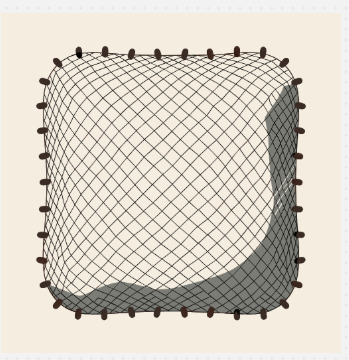
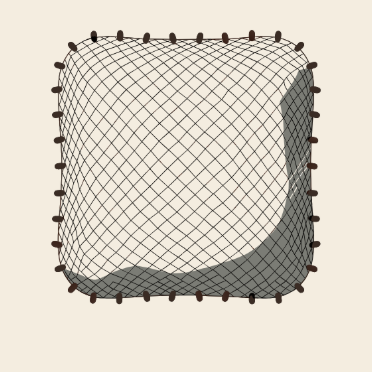
Design polish: smaller radar lens, lighter drag cursor, team intros, longer satellite pass, illustrated main points

diff --git a/src/styles.css b/src/styles.css
@@ -101,9 +101,9 @@ em.green { font-style: italic; color: var(--mangrove); }
 /* cursor */
 .cursor { position: fixed; left: 0; top: 0; z-index: 90; pointer-events: none; width: 14px; height: 14px; margin: -7px 0 0 -7px; border-radius: 50%; border: 1px solid var(--mocha); display: grid; place-items: center; transition: width 0.45s var(--ease), height 0.45s var(--ease), margin 0.45s var(--ease), background 0.45s, border-color 0.3s, opacity 0.3s; opacity: 0; mix-blend-mode: normal; }
 .cursor.show { opacity: 1; }
-.cursor.big { width: 84px; height: 84px; margin: -42px 0 0 -42px; background: var(--mocha); border-color: var(--mocha); }
+.cursor.big { width: 58px; height: 58px; margin: -29px 0 0 -29px; background: rgba(244, 237, 224, 0.62); border-color: rgba(58, 44, 36, 0.55); -webkit-backdrop-filter: blur(6px); backdrop-filter: blur(6px); box-shadow: 0 8px 22px -10px rgba(58, 44, 36, 0.45); }
 .cursor.link { width: 40px; height: 40px; margin: -20px 0 0 -20px; background: rgba(240, 86, 111, 0.25); border-color: var(--loss); }
-.cursor span { font-family: var(--font-mono); font-size: 0.6rem; letter-spacing: 0.12em; text-transform: uppercase; color: var(--sand-light); opacity: 0; transition: opacity 0.3s; }
+.cursor span { font-family: var(--font-mono); font-size: 0.54rem; letter-spacing: 0.14em; text-transform: uppercase; color: var(--mocha); opacity: 0; transition: opacity 0.3s; }
 .cursor.big span { opacity: 1; }
 .cursor.gone { opacity: 0; }
 
@@ -290,7 +290,9 @@ input[type='range'] { width: 100%; accent-color: var(--mocha); }
 .person { padding: 26px 22px 34px 0; border-bottom: 1px solid var(--line); }
 .person:not(:nth-child(3n + 1)) { padding-left: 22px; border-left: 1px solid var(--line); }
 .person .ph { aspect-ratio: 4 / 5; background: repeating-linear-gradient(135deg, var(--sand-deep) 0 10px, var(--sand) 10px 20px); display: grid; place-items: center; text-align: center; margin-bottom: 18px; padding: 16px; }
-.person h3 { font-size: 1.7rem; }
+.person h3 { font-size: 1.9rem; margin-top: 10px; }
+.person .mono { color: var(--loss); }
+.person p { margin: 12px 0 0; font-size: 0.98rem; line-height: 1.55; max-width: 34ch; color: var(--mocha-soft); }
 .list { border-top: 1px solid var(--line); }
 .list > a, .list > div { display: grid; grid-template-columns: 1fr 1.6fr auto; gap: 26px; align-items: baseline; padding: 26px 0; border-bottom: 1px solid var(--line); text-decoration: none; transition: padding 0.6s var(--ease); }
 .list > a:hover { padding-left: 16px; }
@@ -339,10 +341,9 @@ footer nav a { text-decoration: none; }
 #fish .tl-fill { position: absolute; inset: 0; background: #f0566f; transform-origin: left center; transform: scaleX(var(--p)); }
 #fish .tl-fish { position: absolute; width: 36px; height: 18px; left: calc(10% + 80% * var(--p)); top: -9px; transform: translateX(-50%); overflow: visible; }
 #fish .tl-step { position: relative; z-index: 1; text-align: center; }
-#fish .ph { width: var(--d); height: var(--d); margin: 0 auto; border-radius: 50%; overflow: hidden; border: 1px solid var(--mocha); opacity: 0.28; filter: grayscale(0.8); transform: scale(0.9); transition: opacity 0.8s ease, filter 0.8s ease, transform 0.9s cubic-bezier(.2,.7,.2,1), outline-color 0.8s ease; outline: 1px solid transparent; outline-offset: 8px; }
+#fish .ph { width: var(--d); height: var(--d); margin: 0 auto; border-radius: 50%; overflow: hidden; border: 1px solid var(--mocha); opacity: 0.28; filter: grayscale(0.8); transform: scale(0.9); transition: opacity 0.8s ease, filter 0.8s ease, transform 0.9s cubic-bezier(.2,.7,.2,1), outline-color 0.8s ease; outline: 1px solid transparent; outline-offset: 0; background: #f4ede0; }
 #fish .tl-step.on .ph { opacity: 0.7; filter: grayscale(0.25); transform: scale(0.97); }
 #fish .tl-step.cur .ph { opacity: 1; filter: none; transform: scale(1.05); outline-color: #f0566f; box-shadow: 0 18px 40px -18px rgba(58, 44, 36, 0.45); }
-#fish .tl-step.cur .ph svg { animation: bob 4.5s ease-in-out infinite; }
 #fish .tl-cap { margin: 8px auto 0; max-width: 18ch; font-size: 0.95rem; line-height: 1.45; opacity: 0; transform: translateY(6px); transition: opacity 0.6s ease 0.15s, transform 0.6s ease 0.15s; }
 #fish .tl-step.cur .tl-cap { opacity: 1; transform: none; }
 #fish .tl-step:not(.cur) h3 { opacity: 0.45; }
@@ -585,9 +586,29 @@ footer nav a { text-decoration: none; }
 .n3d-list button span { font-family: var(--font-mono); margin-right: 8px; }
 .nisar-3d .sketchfab-embed-wrapper { margin-top: 14px; }
 @media (max-width: 700px) { .n3d-card { position: static; max-width: none; margin-top: 12px; } }
-.glance { display: grid; grid-template-columns: repeat(auto-fit, minmax(230px, 1fr)); gap: 14px; margin-top: 34px; }
-.glance article { position: relative; padding: 22px 20px 20px; border: 1px solid var(--mocha); background: var(--sand-light, #fffaf2); }
-.glance article::before { content: ""; position: absolute; left: 0; top: 0; width: 100%; height: 3px; background: #f0566f; }
-.glance .g-n { font-family: var(--font-mono); font-size: .8rem; letter-spacing: .08em; color: #f0566f; }
-.glance h3 { margin: 10px 0 8px; font-size: 1.15rem; font-weight: 500; line-height: 1.3; }
-.glance p { margin: 0; font-size: .98rem; line-height: 1.5; }
+/* the six points: a small drawing each, set on hairlines (no boxes) */
+.glance { display: grid; grid-template-columns: repeat(3, 1fr); margin-top: 40px; border-top: 1px solid var(--line); }
+.glance article { position: relative; padding: 30px 28px 34px; border-bottom: 1px solid var(--line); transition: background 0.5s ease; }
+.glance article:not(:nth-child(3n + 1)) { border-left: 1px solid var(--line); }
+.glance article:hover { background: rgba(58, 44, 36, 0.04); }
+.glance .g-top { display: flex; align-items: center; gap: 14px; }
+.glance .g-top::after { content: ""; flex: 1; height: 1px; background: var(--line); order: 1; }
+.glance .g-n { order: 2; font-family: var(--font-display); font-size: 2.3rem; line-height: 1; color: rgba(58, 44, 36, 0.32); transition: color 0.5s ease; }
+.glance article:hover .g-n { color: #f0566f; }
+.glance .g-ic { flex: none; width: 72px; height: 72px; border-radius: 50%; background: var(--sand); display: grid; place-items: center; transition: transform 0.6s cubic-bezier(.2,.7,.2,1); }
+.glance article:hover .g-ic { transform: scale(1.06) rotate(-3deg); }
+.glance svg { width: 52px; height: 52px; fill: none; stroke: var(--mocha); stroke-width: 2; stroke-linecap: round; stroke-linejoin: round; overflow: visible; }
+.glance svg .acc { stroke: #f0566f; }
+.glance svg .accf { fill: #f0566f; stroke: none; }
+.glance svg .dk { fill: var(--mocha); }
+.glance svg .inv { stroke: var(--sand); }
+.glance svg .dots { fill: var(--sand); stroke: none; }
+.glance svg .pulse { animation: gPulse 2.4s ease-in-out infinite; }
+.glance svg .pulse.p2 { animation-delay: 0.3s; }
+.glance svg .pulse.p3 { animation-delay: 0.6s; }
+@keyframes gPulse { 0%, 100% { opacity: 0.25; } 40% { opacity: 1; } }
+.glance h3 { margin: 20px 0 8px; font-size: 1.2rem; font-weight: 500; line-height: 1.3; max-width: 22ch; }
+.glance p { margin: 0; font-size: .98rem; line-height: 1.55; max-width: 36ch; color: var(--mocha-soft); }
+@media (max-width: 980px) { .glance { grid-template-columns: repeat(2, 1fr); } .glance article:not(:nth-child(3n + 1)) { border-left: 0; } .glance article:nth-child(2n) { border-left: 1px solid var(--line); } }
+@media (max-width: 620px) { .glance { grid-template-columns: 1fr; } .glance article, .glance article:nth-child(2n) { border-left: 0; padding: 24px 0 28px; } .glance .g-ic { width: 60px; height: 60px; } }
+@media (prefers-reduced-motion: reduce) { .glance svg .pulse { animation: none; } }

diff --git a/src/home.js b/src/home.js
@@ -7,7 +7,7 @@ import { TILE_BASE } from './tiles.js';
 
 init();
 const OPTICAL = 's2_truecolor_2025_26', RADAR = 'nisar_hv_20261011';
-const SAND = '#eadfcb', MOCHA = '#3a2c24', LBAND = '#b0782a';
+const SAND_LIGHT = '#f4ede0', MOCHA = '#3a2c24', CORAL = '#f0566f';
 
 /* ---------- 1 · hero: real image, illustrated cloud, radar lens ---------- */
 {
@@ -29,22 +29,45 @@ const SAND = '#eadfcb', MOCHA = '#3a2c24', LBAND = '#b0782a';
     g.imageSmoothingEnabled = true;
     cover(g, base, w, h, view.zoom);
     drawClouds(g, w, h, t);
-    const r = Math.min(w, h) * (FINE ? 0.14 : 0.17);
+    const r = Math.min(w, h) * (FINE ? 0.115 : 0.14), X = lens.x, Y = lens.y;
+    // soft shadow so the lens sits above the cloud
     g.save();
-    g.beginPath(); g.arc(lens.x, lens.y, r, 0, 7); g.clip();
-    cover(g, rad, w, h, view.zoom);
+    g.shadowColor = 'rgba(58, 44, 36, 0.4)'; g.shadowBlur = 26 * DPR; g.shadowOffsetY = 8 * DPR;
+    g.fillStyle = '#141210'; g.beginPath(); g.arc(X, Y, r, 0, 7); g.fill();
     g.restore();
-    // lens ring, ticks and label
-    g.strokeStyle = SAND; g.lineWidth = 5 * DPR;
-    g.beginPath(); g.arc(lens.x, lens.y, r, 0, 7); g.stroke();
-    g.strokeStyle = LBAND; g.lineWidth = 1.5 * DPR;
-    g.beginPath(); g.arc(lens.x, lens.y, r + 7 * DPR, 0, 7); g.stroke();
-    for (let k = 0; k < 36; k++) {
-      const a = (k / 36) * 6.283 + t * 0.05, l = (k % 9 ? 5 : 13) * DPR, r0 = r + 10 * DPR;
-      g.beginPath(); g.moveTo(lens.x + Math.cos(a) * r0, lens.y + Math.sin(a) * r0); g.lineTo(lens.x + Math.cos(a) * (r0 + l), lens.y + Math.sin(a) * (r0 + l)); g.stroke();
+    g.save();
+    g.beginPath(); g.arc(X, Y, r, 0, 7); g.clip();
+    cover(g, rad, w, h, view.zoom);
+    // a faint glass shade towards the rim
+    const sh = g.createRadialGradient(X, Y, r * 0.55, X, Y, r);
+    sh.addColorStop(0, 'rgba(20, 18, 16, 0)'); sh.addColorStop(1, 'rgba(20, 18, 16, 0.38)');
+    g.fillStyle = sh; g.fillRect(X - r, Y - r, r * 2, r * 2);
+    g.restore();
+    // thin light rim, a hairline outer ring with four ticks, and one slow coral sweep
+    g.lineCap = 'round';
+    g.strokeStyle = SAND_LIGHT; g.lineWidth = 2 * DPR;
+    g.beginPath(); g.arc(X, Y, r, 0, 7); g.stroke();
+    const r1 = r + 9 * DPR;
+    g.strokeStyle = 'rgba(58, 44, 36, 0.38)'; g.lineWidth = 1 * DPR;
+    g.beginPath(); g.arc(X, Y, r1, 0, 7); g.stroke();
+    for (let k = 0; k < 4; k++) {
+      const a = (k / 4) * 6.283 - 0.785;
+      g.beginPath(); g.moveTo(X + Math.cos(a) * (r1 - 4 * DPR), Y + Math.sin(a) * (r1 - 4 * DPR)); g.lineTo(X + Math.cos(a) * (r1 + 5 * DPR), Y + Math.sin(a) * (r1 + 5 * DPR)); g.stroke();
     }
-    g.font = `500 ${11 * DPR}px "Geist Mono", monospace`; g.fillStyle = MOCHA; g.textAlign = 'center';
-    g.fillText('RADAR · SEES THROUGH CLOUD', lens.x, lens.y - r - 30 * DPR);
+    const sw = t * 0.5;
+    g.strokeStyle = CORAL; g.lineWidth = 2.5 * DPR;
+    g.beginPath(); g.arc(X, Y, r1, sw, sw + 0.7); g.stroke();
+    g.fillStyle = CORAL; g.beginPath(); g.arc(X + Math.cos(sw + 0.7) * r1, Y + Math.sin(sw + 0.7) * r1, 3 * DPR, 0, 7); g.fill();
+    g.lineCap = 'butt';
+    // small label on a pill, so it reads over cloud and land alike
+    const txt = 'RADAR VIEW';
+    g.font = `500 ${9.5 * DPR}px "Geist Mono", monospace`; g.textAlign = 'center'; g.textBaseline = 'middle';
+    const tw = g.measureText(txt).width + 30 * DPR, th = 20 * DPR, ly = Y - r1 - 20 * DPR;
+    g.fillStyle = 'rgba(244, 237, 224, 0.86)';
+    g.beginPath(); g.roundRect(X - tw / 2, ly - th / 2, tw, th, th / 2); g.fill();
+    g.fillStyle = CORAL; g.beginPath(); g.arc(X - tw / 2 + 11 * DPR, ly, 2.5 * DPR, 0, 7); g.fill();
+    g.fillStyle = MOCHA; g.fillText(txt, X + 5 * DPR, ly + 0.5 * DPR);
+    g.textBaseline = 'alphabetic';
     // live coordinate of the lens centre (approximate, from the cover fit)
     const s = Math.max(w / base.width, h / base.height) * view.zoom;
     const u = (lens.x - (w - base.width * s) / 2) / (base.width * s), v = (lens.y - (h - base.height * s) / 2) / (base.height * s);
@@ -193,13 +216,15 @@ const SAND = '#eadfcb', MOCHA = '#3a2c24', LBAND = '#b0782a';
     fit(c);
     const w = c.width, h = c.height;
     t += REDUCE ? 0 : 0.016;
-    const grow = clamp(p / 0.22, 0, 1), cloud = clamp((p - 0.18) / 0.2, 0, 1), pass = clamp((p - 0.42) / 0.22, 0, 1), rev = clamp((p - 0.62) / 0.3, 0, 1);
+    const grow = clamp(p / 0.14, 0, 1), cloud = clamp((p - 0.12) / 0.14, 0, 1), pass = clamp((p - 0.3) / 0.4, 0, 1), rev = clamp((p - 0.7) / 0.24, 0, 1);
+    // the satellite slows down over the middle of the frame, so it stays in view while you scroll
+    const u = 2 * pass - 1, glide = 0.5 + 0.5 * Math.sign(u) * Math.pow(Math.abs(u), 1.7);
     if (!REDUCE) {
       const k = 1 - gsap.parseEase('power2.inOut')(grow), m = innerWidth < 900;
       frame.style.clipPath = `inset(${(m ? 30 : 24) * k}% ${(m ? 12 : 30) * k}%)`;
     }
     if (!REDUCE) {
-      const a = clamp((p - 0.14) / 0.1, 0, 1);
+      const a = clamp((p - 0.09) / 0.07, 0, 1);
       intro.style.opacity = 1 - grow; intro.style.transform = `translateY(${-40 * grow}px)`;
       box.style.opacity = a; box.style.transform = `translateY(${30 * (1 - a)}px)`;
     }
@@ -213,24 +238,24 @@ const SAND = '#eadfcb', MOCHA = '#3a2c24', LBAND = '#b0782a';
       if (rev < 1) { const gr = g.createLinearGradient(w * rev - 90 * DPR, 0, w * rev, 0); gr.addColorStop(0, 'rgba(176,120,42,0)'); gr.addColorStop(1, 'rgba(176,120,42,.85)'); g.fillStyle = gr; g.fillRect(w * rev - 90 * DPR, 0, 90 * DPR, h); }
     }
     if (pass > 0 && pass < 1) { // the satellite crossing, with its radar beam
-      const X = lerp(-80 * DPR, w + 80 * DPR, pass), Y = h * 0.2;
+      const X = lerp(-80 * DPR, w + 80 * DPR, glide), Y = h * 0.2;
       g.fillStyle = 'rgba(176,120,42,.16)'; g.beginPath(); g.moveTo(X - 8 * DPR, Y); g.lineTo(X - 190 * DPR, h); g.lineTo(X + 190 * DPR, h); g.lineTo(X + 8 * DPR, Y); g.fill();
     }
     // the 3D satellite follows the same path as the beam, as a DOM element on top of the canvas
-    const fade = clamp(Math.min(pass * 6, (1 - pass) * 6), 0, 1);
+    const fade = clamp(Math.min(pass * 8, (1 - pass) * 8), 0, 1);
     if (pass > 0 && pass < 1) {
-      const X = lerp(-80 * DPR, w + 80 * DPR, pass), Y = h * 0.2;
+      const X = lerp(-80 * DPR, w + 80 * DPR, glide), Y = h * 0.2;
       sat.style.transform = `translate(${(X / w * c.clientWidth).toFixed(1)}px, ${(Y / h * c.clientHeight).toFixed(1)}px) translate(-50%, -50%)`;
       sat.style.opacity = fade.toFixed(2);
     } else {
       sat.style.opacity = '0';
     }
-    const s = p < 0.42 ? 0 : p < 0.62 ? 1 : 2;
+    const s = p < 0.3 ? 0 : p < 0.7 ? 1 : 2;
     if (s !== stage) { stage = s; $('#bStage').textContent = copy[s][0]; $('#bH').textContent = copy[s][1]; $('#bD').textContent = copy[s][2]; }
   };
   whileVisible($('#blind'), draw);
   if (!REDUCE) {
-    ScrollTrigger.create({ trigger: '#blind', start: 'top top', end: '+=260%', pin: true, scrub: 1, onUpdate: (s) => (p = s.progress) });
+    ScrollTrigger.create({ trigger: '#blind', start: 'top top', end: '+=420%', pin: true, scrub: 1, onUpdate: (s) => (p = s.progress) });
   }
 }
 

diff --git a/nisar.html b/nisar.html
@@ -49,14 +49,14 @@
   <div class="wrap">
     <span class="label">At a glance</span>
     <h2 class="t-l" data-split>The main points, in one view.</h2>
-    <p class="lede" data-reveal>Six short points about NISAR. Read them from top to bottom.</p>
+    <p class="lede" data-reveal>Six short points about NISAR, each with a small drawing. The sections below explain them one by one.</p>
     <div class="glance">
-      <article data-reveal><span class="g-n">01</span><h3>A camera needs light. Radar makes its own.</h3><p>A camera needs sunlight and a clear sky. Radar sends its own radio waves, so it works at night and through clouds.</p></article>
-      <article data-reveal><span class="g-n">02</span><h3>Water looks dark. Forest looks bright.</h3><p>Water sends radio waves away. Trees and branches send them back.</p></article>
-      <article data-reveal><span class="g-n">03</span><h3>Some waves go deep into the trees.</h3><p>Long radio waves can reach trunks and branches. Short ones stay higher up.</p></article>
-      <article data-reveal><span class="g-n">04</span><h3>Two pictures of the same place.</h3><p>One is a normal photo. One is NISAR's radar picture. Both show Karachi's mangrove coast.</p></article>
-      <article data-reveal><span class="g-n">05</span><h3>It comes back every 12 days.</h3><p>One picture is one moment. Pictures every 12 days show change over time.</p></article>
-      <article data-reveal><span class="g-n">06</span><h3>Radar is honest. It cannot read minds.</h3><p>Radar shows where forest is and how it changes. It cannot tell us why, on its own.</p></article>
+      <article data-reveal><div class="g-top"><span class="g-ic"><svg viewBox="0 0 64 64" aria-hidden="true"><rect x="22" y="9" width="20" height="8" rx="1.5"/><path d="M14 13h8M42 13h8"/><path class="acc pulse" d="M25 27q7 5 14 0"/><path class="acc pulse p2" d="M20 36q12 8 24 0"/><path class="acc pulse p3" d="M15 45q17 11 34 0"/><path d="M8 57h48"/></svg></span><span class="g-n">01</span></div><h3>A camera needs light. Radar makes its own.</h3><p>A camera needs sunlight and a clear sky. Radar sends its own radio waves, so it works at night and through clouds.</p></article>
+      <article data-reveal="0.08"><div class="g-top"><span class="g-ic"><svg viewBox="0 0 64 64" aria-hidden="true"><circle cx="32" cy="32" r="23"/><path class="dk" d="M32 9a23 23 0 0 0 0 46z"/><path class="inv" d="M14 30q3-3 6 0t6 0M15 38q3-3 6 0t6 0"/><path class="acc" d="M43 44V31"/><circle class="acc" cx="43" cy="25" r="6.5"/></svg></span><span class="g-n">02</span></div><h3>Water looks dark. Forest looks bright.</h3><p>Water sends radio waves away. Trees and branches send them back.</p></article>
+      <article data-reveal="0.16"><div class="g-top"><span class="g-ic"><svg viewBox="0 0 64 64" aria-hidden="true"><path d="M32 56V30"/><path d="M32 42l-8-7M32 37l8-7"/><path d="M17 27a9 9 0 0 1 5-15a11 11 0 0 1 20 0a9 9 0 0 1 5 15z"/><path class="acc" d="M4 34q4-7 8 0t8 0t8 0"/><path class="acc" d="M24 30l5 4l-5 4"/><path d="M10 56h44"/></svg></span><span class="g-n">03</span></div><h3>Some waves go deep into the trees.</h3><p>Long radio waves can reach trunks and branches. Short ones stay higher up.</p></article>
+      <article data-reveal><div class="g-top"><span class="g-ic"><svg viewBox="0 0 64 64" aria-hidden="true"><rect x="8" y="10" width="32" height="26" rx="1.5"/><circle cx="18" cy="19" r="3.5"/><path d="M8 32l9-8l7 6"/><rect class="dk" x="24" y="28" width="32" height="26" rx="1.5"/><path class="acc" d="M28 49q6-14 12-8t12-8"/><g class="dots"><circle cx="31" cy="34" r="1.2"/><circle cx="38" cy="48" r="1.2"/><circle cx="46" cy="35" r="1.2"/><circle cx="50" cy="47" r="1.2"/></g></svg></span><span class="g-n">04</span></div><h3>Two pictures of the same place.</h3><p>One is a normal photo. One is NISAR's radar picture. Both show Karachi's mangrove coast.</p></article>
+      <article data-reveal="0.08"><div class="g-top"><span class="g-ic"><svg viewBox="0 0 64 64" aria-hidden="true"><circle cx="32" cy="32" r="9"/><path d="M24 29q8 4 16 0"/><ellipse class="acc" cx="32" cy="32" rx="26" ry="11" transform="rotate(-24 32 32)" stroke-dasharray="3 4"/><circle class="accf pulse" cx="55.7" cy="21.4" r="3.4"/></svg></span><span class="g-n">05</span></div><h3>It comes back every 12 days.</h3><p>One picture is one moment. Pictures every 12 days show change over time.</p></article>
+      <article data-reveal="0.16"><div class="g-top"><span class="g-ic"><svg viewBox="0 0 64 64" aria-hidden="true"><circle cx="28" cy="28" r="18"/><path d="M41 41l14 14"/><path class="acc" d="M22 23a6 6 0 1 1 9 5q-3 2-3 5"/><circle class="accf" cx="28" cy="38.5" r="1.6"/></svg></span><span class="g-n">06</span></div><h3>Radar is honest. It cannot read minds.</h3><p>Radar shows where forest is and how it changes. It cannot tell us why, on its own.</p></article>
     </div>
   </div>
 </section>

diff --git a/about.html b/about.html
@@ -24,13 +24,13 @@
   <h2 class="t-l" data-split>The people behind it.</h2>
   <p class="lede" data-reveal>Six students from FAST-NUCES Karachi, all in their third semester of Computer Science.</p>
   <div class="people">
-    <!-- TEAM: one block per person. -->
-    <div class="person" data-reveal><h3>Ibraheem</h3><span class="mono">BS Computer Science · 3rd semester</span></div>
-    <div class="person" data-reveal="0.08"><h3>Saad</h3><span class="mono">BS Computer Science · 3rd semester</span></div>
-    <div class="person" data-reveal="0.16"><h3>Ali</h3><span class="mono">BS Computer Science · 3rd semester</span></div>
-    <div class="person" data-reveal><h3>Summaiya</h3><span class="mono">BS Computer Science · 3rd semester</span></div>
-    <div class="person" data-reveal="0.08"><h3>Ahmed</h3><span class="mono">BS Computer Science · 3rd semester</span></div>
-    <div class="person" data-reveal="0.16"><h3>Jawwad</h3><span class="mono">BS Computer Science · 3rd semester</span></div>
+    <!-- TEAM: one block per person: role, name, short intro. -->
+    <div class="person" data-reveal><span class="mono">Collaborations</span><h3>Ibraheem</h3><p>Ibraheem leads our work with collaborators. He talks to the people and organisations on Karachi&rsquo;s coast, so the satellite data stays tied to what they see on the ground.</p></div>
+    <div class="person" data-reveal="0.08"><span class="mono">Collaborations</span><h3>Saad</h3><p>Saad works with Ibraheem on collaborations. He keeps in touch with our partners and makes sure each one is named only the way it has agreed to be named.</p></div>
+    <div class="person" data-reveal="0.16"><span class="mono">Maps and data</span><h3>Ali</h3><p>Ali builds the maps. He turns the satellite data into the layers, zones and alerts you can explore on the map page.</p></div>
+    <div class="person" data-reveal><span class="mono">Design and UI</span><h3>Summaiya</h3><p>Summaiya designs the interface. She shapes how the site looks and feels, so the story is easy to follow for someone seeing it for the first time.</p></div>
+    <div class="person" data-reveal="0.08"><span class="mono">Team lead</span><h3>Ahmed</h3><p>Ahmed leads the team. He sets the direction, keeps the work on track and brings everyone&rsquo;s pieces together.</p></div>
+    <div class="person" data-reveal="0.16"><span class="mono">Research</span><h3>Jawwad</h3><p>Jawwad handles the research. He reads the studies and reports behind the project and checks that the numbers on the site have a source.</p></div>
   </div>
 </div></section>
 

diff --git a/index.html b/index.html
@@ -13,7 +13,7 @@
 <main>
 
 <!-- 1 · ARRIVAL -->
-<section id="hero" class="screen speckle scan" data-cursor="Radar">
+<section id="hero" class="screen speckle scan">
   <canvas id="cHero" class="fill" role="img" aria-label="Satellite view of Karachi's mangrove coast under drifting cloud. A circular radar lens shows the NISAR radar image of the same place, seen through the cloud."></canvas>
   <div class="veil"></div>
   <div class="hud tl"><b>Rehri Goth to Port Qasim</b> · Karachi<br>Sindh, Pakistan</div>
@@ -89,7 +89,7 @@
       <h3>On your plate</h3>
       <p class="tl-cap">Dinner is served.</p>
     </li>
-    <svg class="tl-hop" viewBox="-60 -30 120 60" aria-hidden="true"><use href="#fishG"/></svg>
+    <svg class="tl-hop" viewBox="-60 -30 120 60" aria-hidden="true"><use href="#fishG" transform="scale(-1 1)"/></svg>
   </ol>
   <div class="tl-foot">
     <a class="btn solid home-link" href="#tree" data-open="fish">Visit the fish's home &uarr;</a>
